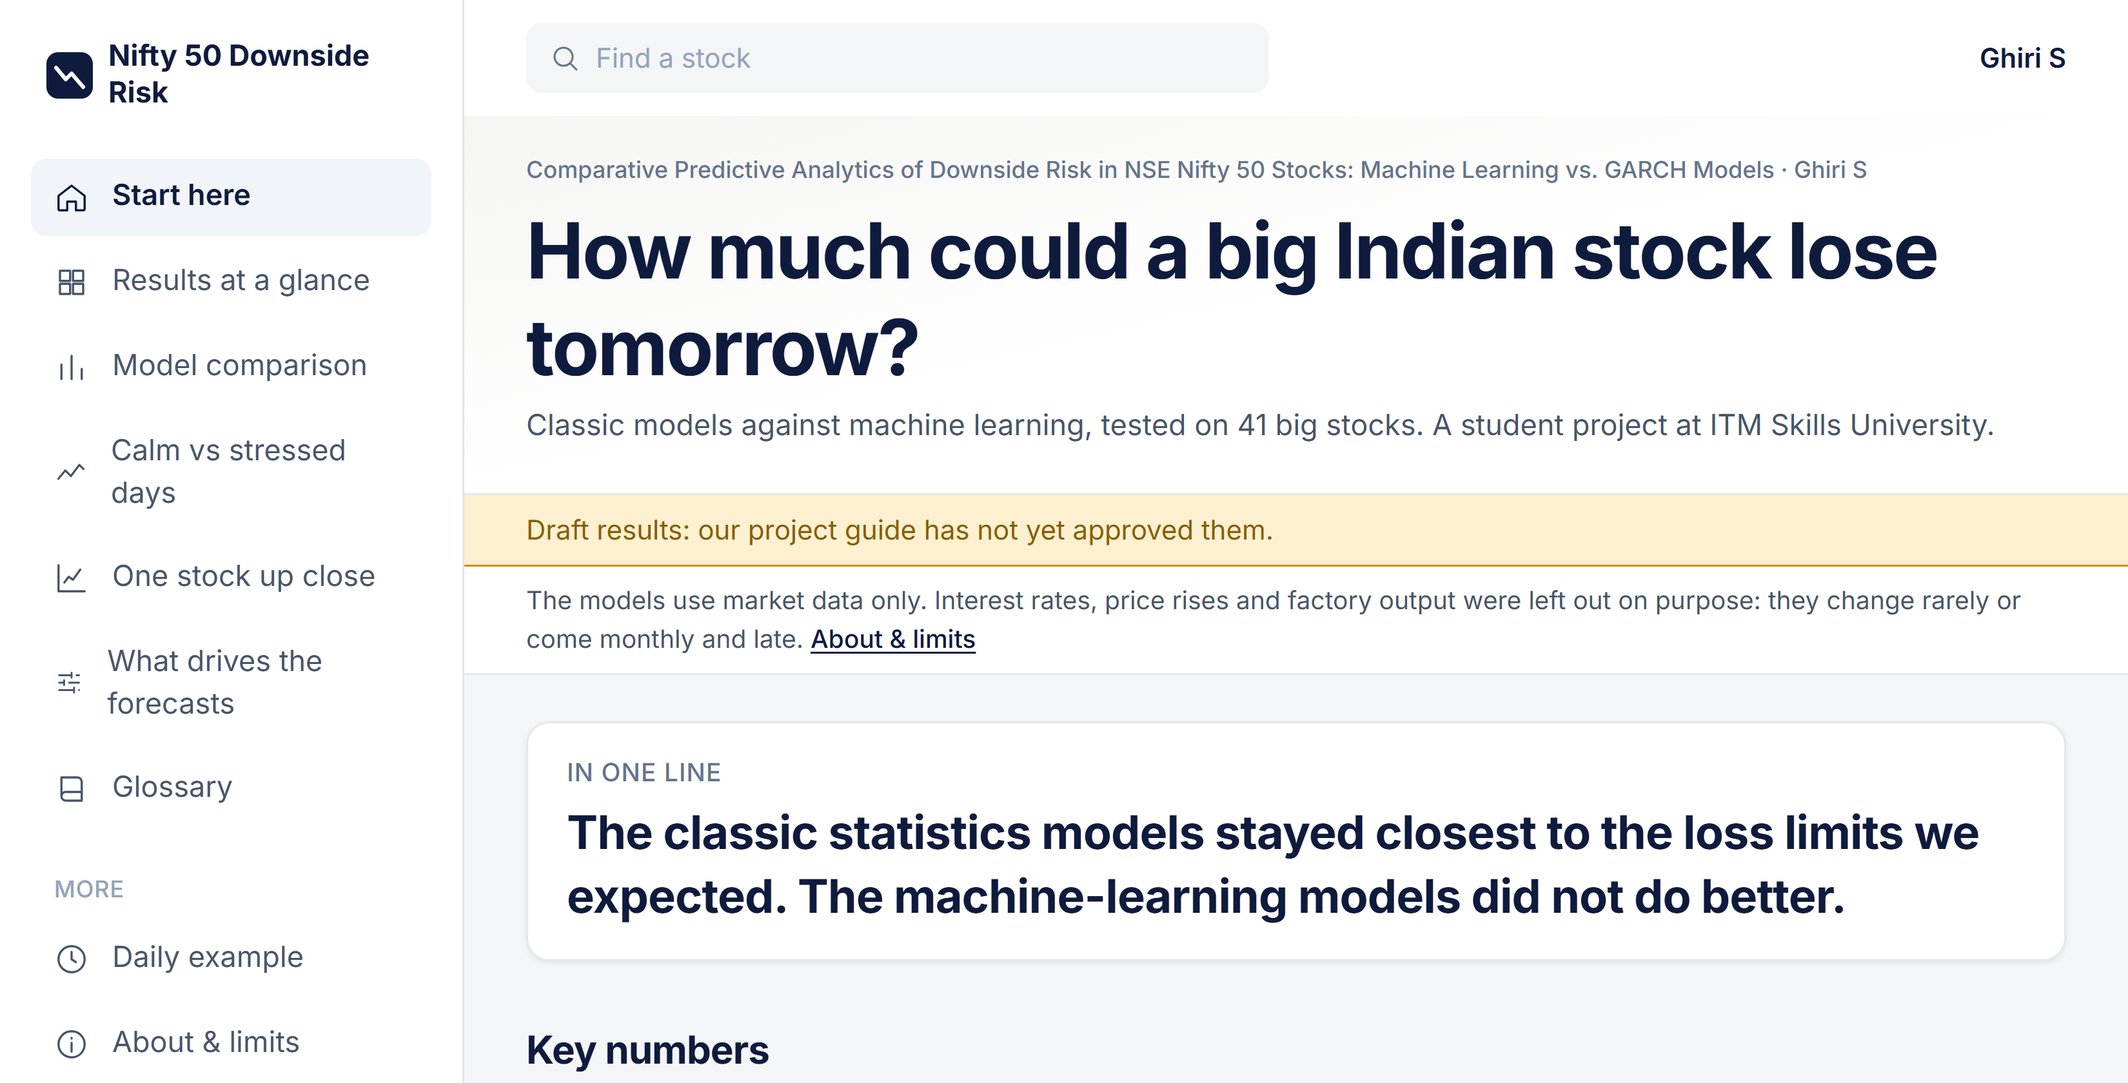
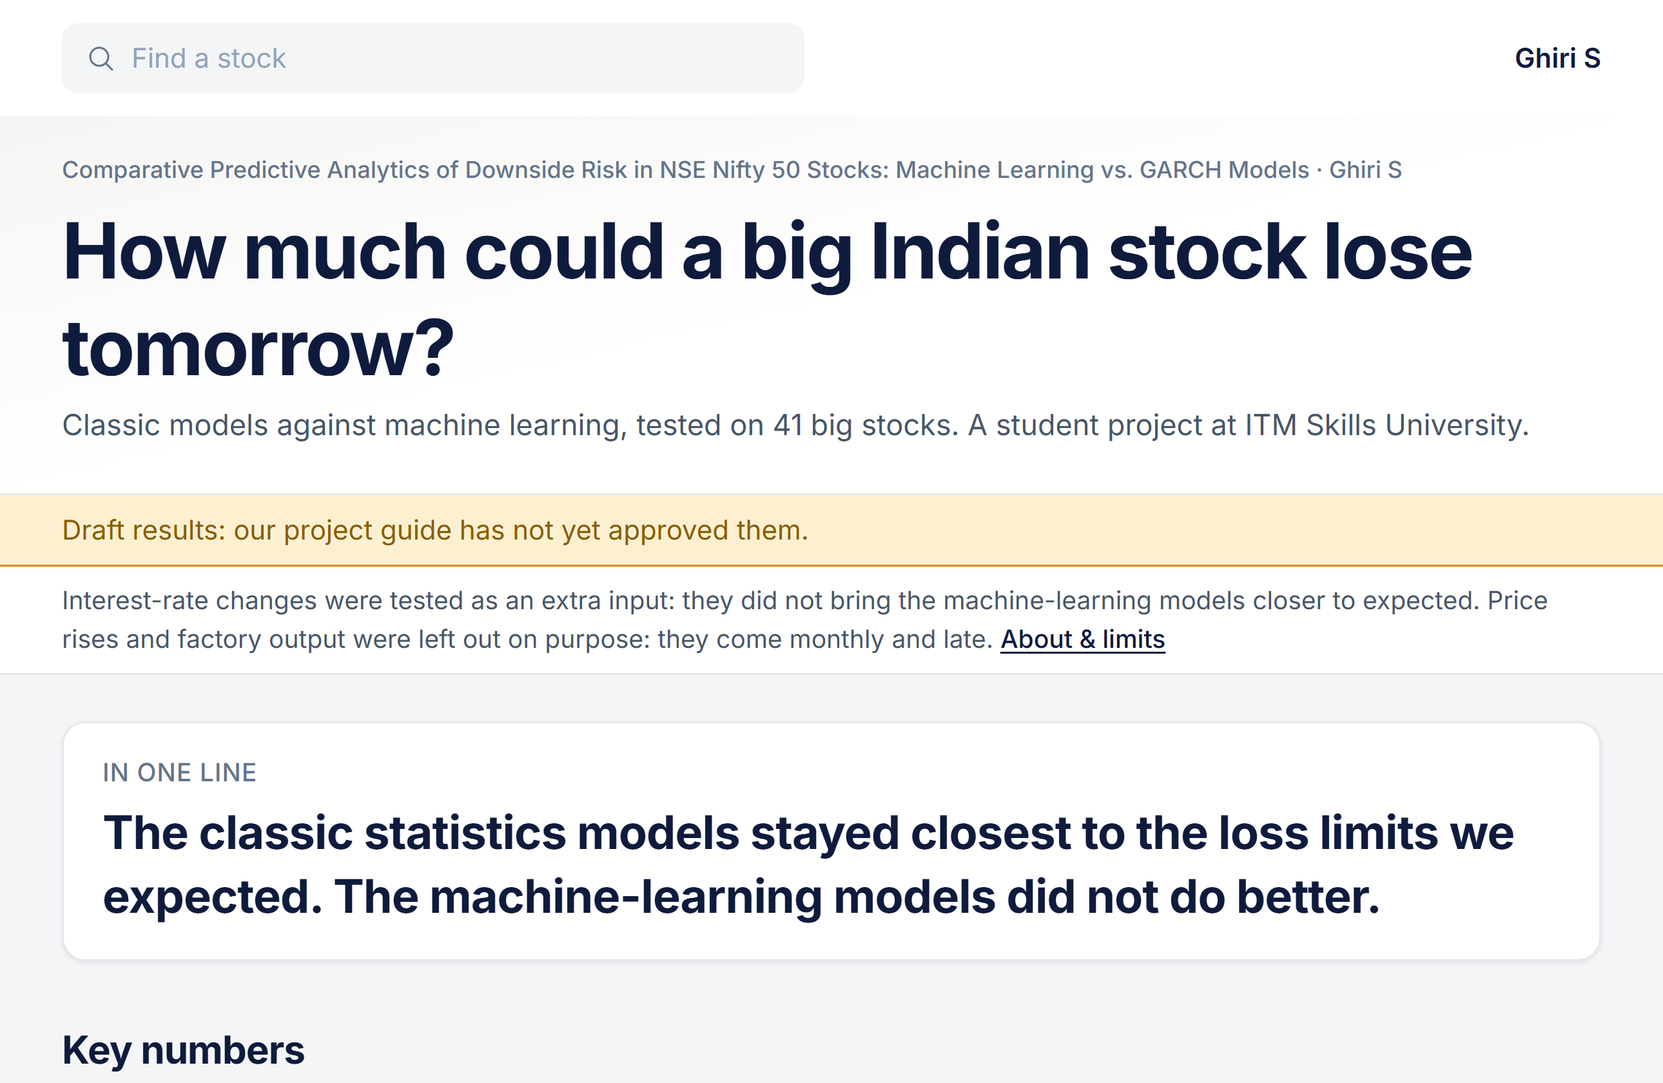
Report: interest-rate sections from the Path A result; screenshots on portrait A4 (content area, two per page); pipeline diagram label fixed; QA refreshed (397 numbers traced)

diff --git a/src/report_screens.py b/src/report_screens.py
@@ -8,7 +8,7 @@ each crop (HTML and chart text) is measured and its printed size logged. It must
   python src/report_screens.py [--url https://ghiris-a11y.github.io/capstone-nifty50-downside-risk/] [--mode all|desktop|phone|crops]
   -> report/figures/dashboard/app_<name>.png and report/figures/dashboard/app_sizes.json   (crops: element crops)
   -> report/figures/dashboard/desk_<tab>.png  (desktop: first screen of each tab, 1100 x 700, device scale 3, cropped
-     at the bottom to 1100 x 560 so a 25 cm wide image plus caption fits a landscape A4 page)
+     to the content column (menu removed) and the top 560 px, so two fit on a portrait A4 page at 15.5 cm wide)
   -> report/figures/dashboard/phone_<tab>.png (phone: first screen at 390 x 844, device scale 3)
   -> report/figures/dashboard/qr_dashboard.png (QR code of the live dashboard URL)
   -> report/figures/dashboard/screen_sizes.json (printed size of the body text in each image)
@@ -72,7 +72,8 @@ JS_BOX = """([pick, budgetCm, printCm, pad]) => {
 DESK_TABS = [("start", "#/"), ("overview", "#/overview"), ("models", "#/models"), ("regimes", "#/regimes"),
              ("stock", "#/stock"), ("live", "#/live")]
 PHONE_TABS = [("start", "#/"), ("models", "#/models"), ("live", "#/live")]
-DESK_PRINT_CM, DESK_CROP_H = 25.0, 560
+DESK_PRINT_CM, DESK_CROP_H = 15.5, 560
+SIDEBAR_PX = 240  # the dashboard's fixed menu column, cropped off so the content fills a portrait A4 figure
 PHONE_PRINT_CM = 5.4
 BODY_JS = """() => { const fs = [...document.querySelectorAll('main p')].filter(e => e.getBoundingClientRect().top < innerHeight && e.getBoundingClientRect().width)
   .map(e => parseFloat(getComputedStyle(e).fontSize)).sort((a, b) => a - b); return fs.length ? fs[Math.floor(fs.length / 2)] : 0; }"""
@@ -91,10 +92,12 @@ def first_screens(url, out, tabs, w, h, scale, prefix, print_cm, crop_h=None):
             body_px = page.evaluate(BODY_JS)
             path = os.path.join(out, f"{prefix}_{name}.png")
             page.screenshot(path=path)
-            if crop_h:
-                im = Image.open(path); im.crop((0, 0, im.width, crop_h * scale)).save(path)
+            shown_w = w
+            if crop_h:   # desktop: keep the content column (menu cropped off) and the top crop_h pixels
+                im = Image.open(path); im.crop((SIDEBAR_PX * scale, 0, im.width, crop_h * scale)).save(path)
+                shown_w = w - SIDEBAR_PX
             sizes[f"{prefix}_{name}"] = dict(viewport=f"{w}x{h}", scale=scale, print_cm=print_cm, body_px=body_px,
-                                             body_pt=round(body_px * print_cm / w / 0.03528, 1))
+                                             body_pt=round(body_px * print_cm / shown_w / 0.03528, 1))
             print(prefix, name, sizes[f"{prefix}_{name}"], flush=True)
         br.close()
     return sizes

diff --git a/src/make_report_visuals.py b/src/make_report_visuals.py
@@ -197,7 +197,7 @@ def techniques():
 def pipeline(N):
     fig, ax = canvas(10.6)
     H = 100 * 10.6 / 15.5
-    box(ax, 1, H - 22, 28, 20, "Yahoo Finance: 41 stocks, Nifty 50, India VIX, USD/INR\nNSE: index constituents\nRBI / MoSPI: repo, CPI, IIP (pending)",
+    box(ax, 1, H - 22, 28, 20, "Yahoo Finance: 41 stocks, Nifty 50, India VIX, USD/INR\nNSE: index constituents\nRBI: repo rate (verified)",
         fc=GREY_L, title="Sources", wrap=24)
     box(ax, 36, H - 22, 28, 20, "Hashes, gaps, zero-volume rows, corporate-action rule; failures logged", fc="white", title="Validation", wrap=27)
     box(ax, 71, H - 22, 28, 20, f"Read-only parquet files with SHA-256 hashes ({N['snapshot'][0]}); source of all report numbers", fc=RED_L, ec=RED,

diff --git a/src/build_report.py b/src/build_report.py
@@ -456,6 +456,8 @@ def add_figure(doc, number, path, caption, source, alt_text, qa, width_cm=None):
 
 def add_image(doc, path, width_cm, alt_text):
     full = os.path.join(ROOT, path)
+    if doc.paragraphs:   # keep the image (e.g. the QR code) on the same page as the line that introduces it
+        doc.paragraphs[-1].paragraph_format.keep_with_next = True
     p = doc.add_paragraph(); p.alignment = WD_ALIGN_PARAGRAPH.CENTER
     p.add_run().add_picture(full, width=Cm(float(width_cm)))
     alt(doc.inline_shapes[-1], alt_text)

diff --git a/report/chapters/04_data_collection.md b/report/chapters/04_data_collection.md
@@ -17,11 +17,11 @@ All data are secondary, daily and numeric. No questionnaire was used (Appendix A
 
 ## 4.2 Data pipeline
 
-{{fig:pipeline}} shows the path from sources to report and dashboard. Downloads wait between requests, retry and log every failure. The research data were frozen on {{snapshot}} into {{n_frozen_files}} read-only files with SHA-256 hashes. A GitHub Action adds each weekday's prices to a separate live file and updates the dashboard; only derived numbers are published.
+{{fig:pipeline}} shows the path from sources to report and dashboard. The research data were frozen on {{snapshot}} into {{n_frozen_files}} read-only files with SHA-256 hashes. A GitHub Action adds each weekday's prices to a separate live file and updates the dashboard; only derived numbers are published.
 
 [[FIG:pipeline|report/figures/v_pipeline.png|Data pipeline from sources to the frozen snapshot, the daily GitHub Action and the dashboard|Author's design; implemented in src/ and .github/workflows/daily_update.yml|Diagram with sources, validation and frozen snapshot in the top row, live files, GitHub Action and research run in the middle row, and the dashboard at the bottom.]]
 
-[[MEANS]] Anyone with the code and the frozen files gets the same numbers. The daily Action shows the recommended model can run unattended at almost no cost.
+[[MEANS]] Anyone with the code and the frozen files gets the same numbers, and the recommended model can run daily at almost no cost.
 
 ## 4.3 Sample selection
 
@@ -29,18 +29,18 @@ All data are secondary, daily and numeric. No questionnaire was used (Appendix A
 
 [[FIG:funnel|report/figures/v_funnel.png|Sample selection funnel from 50 constituents to the 41-stock balanced panel|config/nifty50_dec2025_candidates.csv, config/universe.csv, config/universe_excluded.csv|Funnel showing 50 constituents, 44 with full history after removing 6 later listings, and 41 after removing 3 suspected corporate-action errors.]]
 
-[[MEANS]] Later listings were left out only so that every model sees the same years. The price-error exclusions remove falls that were data artefacts, not real losses.
+[[MEANS]] Every model sees the same years, and falls caused by data errors are not counted as real losses.
 
-## 4.4 The market in the test years
-
-Each stock has {{rows_per_stock}} daily rows from {{data_first}} to {{data_last}}. The test window holds {{test_days_min}} to {{test_days_max}} trading days per stock, {{test_obs}} stock-days in all. At 99%, a good model should be beaten about {{exp_breaches_stock}} times per stock, so one stock alone says little and the analysis pools stocks.
-
-[[FIG:market|outputs/figures/print/fig01_market_context.png|Nifty 50 cumulative log return since January 2015 and the India VIX percentile, 2015 to 2026|outputs/figures/fig01_market_context (src/make_figures.py); frozen snapshot|Line chart of the Nifty 50 cumulative return rising from 2015 to 2026 with the India VIX percentile in amber; the test window from 2024 is shaded and the 7 October 2026 repo hike is marked with a dashed line.]]
-
-[[MEANS]] {{fig:market}} shows a rising but uneven market. The India VIX peaked at about {{vix_test_max}} points in the test years, against {{vix_fit_max}} in the fitting years. The test therefore checks normal to moderately stressed markets, not a 2020-style crisis.
-
-## 4.5 Return statistics
+## 4.4 Return statistics
 
 [[TABLE:desc_panel|desc_panel]]
 
-[[MEANS]] {{tab:desc_panel}} shows that {{pooled_small}} of stock-days moved by less than 2%, yet every stock had rare big falls. With fat tails and negative skew in {{n_negskew}} of {{n_stocks}} stocks, bell-curve models will understate big losses. Appendix C gives the figures by sector.
+[[MEANS]] {{tab:desc_panel}} shows quiet days are the norm ({{pooled_small}} moved under 2%), but fat tails mean bell-curve models will understate big losses. Appendix C gives the figures by sector.
+
+## 4.5 The market in the test years
+
+Each stock has {{rows_per_stock}} daily rows from {{data_first}} to {{data_last}}. The test window holds {{test_days_min}} to {{test_days_max}} trading days per stock, {{test_obs}} stock-days in all, so the analysis pools stocks.
+
+[[FIG:market|outputs/figures/print/fig01_market_context.png|Nifty 50 cumulative log return since January 2015 and the India VIX percentile, 2015 to 2026|outputs/figures/fig01_market_context (src/make_figures.py); frozen snapshot|Line chart of the Nifty 50 cumulative return rising from 2015 to 2026 with the India VIX percentile in amber; the test window from 2024 is shaded and the 7 October 2026 repo hike is marked with a dashed line.]]
+
+[[MEANS]] {{fig:market}} shows a rising but uneven market. The India VIX peaked at about {{vix_test_max}} points in the test years, against {{vix_fit_max}} earlier, so the test covers normal to moderately stressed markets, not a 2020-style crisis.

diff --git a/PROGRESS.md b/PROGRESS.md
@@ -1,6 +1,6 @@
 # PROGRESS
 
-Last updated: 2026-11-22 (report restructured to 48 pages; interest-rate sections pending). Read this file, CLAUDE.md, PROJECT_PLAN.md and HANDOFF.md to resume in a fresh session.
+Last updated: 2026-11-22 (Path A done; report 47 pages, all portrait). Read this file, CLAUDE.md, PROJECT_PLAN.md and HANDOFF.md to resume in a fresh session.
 
 ## Status by phase (PROJECT_PLAN.md section 3)
 
@@ -51,15 +51,16 @@ Pages (restructure, 2026-11-22): 48 in total (front matter 6; chapters 1-9: 42).
     - the 2-ticker rerun matches (backtest and regime files byte-identical; daily and DM files within 1e-16; no decision changes);
     - manifest hashes match; no ticker has fewer than 500 test days and no fit failed.
 
-## Interest-rate (macro) sections still to write (once Path A is decided)
-They were left out of the restructured text on purpose, so the result can be written in once:
-- Chapter 1 scope: a bullet on interest rates.
-- Chapter 3.4: repo rate dated on the RBI announcement date (lag 0); `load_macro` skips unverified files.
-- Chapter 4.1 sources table: a repo-rate row citing RBI Handbook Table 43 (2025); add that reference to Chapter 8.
-- Chapter 5: a post-hike view per model (table `posthike` exists), plus the `price_vixrel_fxchg_repo` row in the input-set table.
-- Chapter 6.3 and 6.8: what the rate result means for the VIX alert and for rate-cycle risk.
-- Chapter 7: the RQ4 sentence and a limitation; H4 wording in `src/report_numbers.py`.
-- Dashboard: the macro note is written by `src/export_dashboard_json.py` and switches automatically once a verified repo run exists.
+## Path A (done 2026-11-22)
+- `data/raw/repo_rate.csv`: 28 rows, all VERIFIED by the student (RBI Handbook Table 43 and MPC releases); file check passed (bdfc3b9).
+  - Do not open and save it in Excel: Excel rewrote the dates as DD-MM-YYYY once.
+- Labelled set `price_vixrel_fxchg_repo` run on 41 stocks, 0 failed (log in `data/logs/run.log`). No new line in `macro_skipped.log`; all 2,846 existing output files byte-identical (7385d48).
+- Result: repo-rate changes moved every ML 99% miss rate further from 1%:
+  - XGBoost 1.54% to 1.58%; Random Forest 1.30% to 1.35%; MLP 1.20% to 1.58%;
+  - DM on FZ0: GARCH better 87 to 112, ML better 19 to 20.
+  - H4 is rejected for both the India VIX and the repo rate.
+- Written into the report (Chapters 1-7, post-hike table with small-sample warning, RBI Handbook reference) and the dashboard (new input set, macro note from the data).
+- Report: 47 pages; desktop screenshots now on portrait A4 (content area, 15.5 cm, two per page).
 
 ## Open items (need the user)
 1. **Interest rates.** Verify `data/raw/repo_rate.csv` row by row and fill the 13 blank rows, then set every status to VERIFIED.

diff --git a/QA_report.md b/QA_report.md
@@ -1,10 +1,10 @@
 # QA report (P10 final QA)
 
-Run on 2026-11-22 14:22 by src/qa_final.py.
+Run on 2026-11-22 20:57 by src/qa_final.py.
 
 ## 1. Tests
 
-- pytest -q: 25 passed, 14 warnings in 13.48s
+- pytest -q: 25 passed, 14 warnings in 9.08s
 - python nifty50_var_pipeline.py --demo: exit code 0
 
 ## 2. Frozen snapshot
@@ -43,15 +43,15 @@ Backtest and regime files (breaches, coverage tests, Basel shares, FZ0 by regime
 ## 5. GitHub Action
 
 - Last scheduled run: 44820066066 on 2026-11-20T21:24:39Z: failure.
-- Last push run: 45003956887 on 2026-11-22T08:41:09Z: success.
+- Last push run: 45037216094 on 2026-11-22T15:14:39Z: success.
 - Failing job `deploy`, step(s) ['Deploy to GitHub Pages']. Log lines: `Error: No artifacts named "github-pages" were found for this workflow run. Ensure artifacts are uploaded with actions/upload-artifact@v4 or later.` / `Error: No artifacts named "github-pages" were found for this workflow run. Ensure artifacts are uploaded with actions/upload-artifact@v4 or later.` / `Fetching artifact metadata failed. Is githubstatus.com reporting issues with API requests, Pages, or Actions? Please re-run the deployment at a later time.`
 - Cause and fix: GitHub's artifact service failed briefly after a successful update and upload (the update job passed). Fix already in place: .github/workflows/daily_update.yml retries the deploy once after 90 s (commit 1286f40, after this run). Every push deploy since then has succeeded; the next scheduled run (Monday) will confirm the retry path.
 
 ## 6. Numbers and references
 
-- outputs/tables/report/report_numbers.csv: 373 numbers, 0 without a source file.
-- Report build QA (report/qa_phase2.md): Placeholders filled: 162 distinct numbers, each traced to a file in outputs/ (outputs/tables/report/report_numbers.csv); Unresolved placeholders: none; [FILL] / [UNVERIFIED] markers in printed text: none; Figures or tables never referenced in the text: none; Missing image files: none
-- References in Chapter 8: 29 entries (20 with a DOI); [UNVERIFIED] markers in the reference list: 0. Verification log: report/chapters/sources.md.
+- outputs/tables/report/report_numbers.csv: 397 numbers, 0 without a source file.
+- Report build QA (report/qa_phase2.md): Placeholders filled: 129 distinct numbers, each traced to a file in outputs/ (outputs/tables/report/report_numbers.csv); Unresolved placeholders: none; [FILL] / [UNVERIFIED] markers in printed text: none; Figures or tables never referenced in the text: none; Missing image files: none
+- References in Chapter 8: 30 entries (20 with a DOI); [UNVERIFIED] markers in the reference list: 0. Verification log: report/chapters/sources.md.
 
 ## 7. Template
 

diff --git a/report/qa_phase2.md b/report/qa_phase2.md
@@ -1,6 +1,6 @@
 # Phase 2 report: build QA
 
-- Placeholders filled: 121 distinct numbers, each traced to a file in outputs/ (outputs/tables/report/report_numbers.csv)
+- Placeholders filled: 129 distinct numbers, each traced to a file in outputs/ (outputs/tables/report/report_numbers.csv)
 - Unresolved placeholders: none
 - [FILL] / [UNVERIFIED] markers in printed text: none
 - Figures or tables never referenced in the text: none
@@ -15,7 +15,7 @@
 | 2 | 0 | 1 |
 | 3 | 2 | 1 |
 | 4 | 3 | 2 |
-| 5 | 9 | 10 |
+| 5 | 9 | 12 |
 | 6 | 2 | 6 |
 | 7 | 0 | 0 |
 | 8 | 0 | 0 |
@@ -42,12 +42,12 @@
 | Figure 5.8 | outputs/figures/print/fig13_breaches_by_day.png | 1791x1540 | 12.8 | 356 |
 | Figure 5.9 | outputs/figures/print/fig09_sector_var.png | 1802x1644 | 12.1 | 380 |
 | Figure 6.1 | report/figures/v_decision_table.png | 2438x2587 | 10.4 | 597 |
-| Figure 6.2 | report/figures/dashboard/desk_start.png | 3264x1680 | 25.0 | 332 |
-| Figure 9.1 | report/figures/dashboard/desk_overview.png | 3264x1680 | 25.0 | 332 |
-| Figure 9.2 | report/figures/dashboard/desk_models.png | 3264x1680 | 25.0 | 332 |
-| Figure 9.3 | report/figures/dashboard/desk_regimes.png | 3264x1680 | 25.0 | 332 |
-| Figure 9.4 | report/figures/dashboard/desk_stock.png | 3264x1680 | 25.0 | 332 |
-| Figure 9.5 | report/figures/dashboard/desk_live.png | 3264x1680 | 25.0 | 332 |
+| Figure 6.2 | report/figures/dashboard/desk_start.png | 2580x1656 | 15.5 | 423 |
+| Figure 9.1 | report/figures/dashboard/desk_overview.png | 2580x1656 | 15.5 | 423 |
+| Figure 9.2 | report/figures/dashboard/desk_models.png | 2580x1656 | 15.5 | 423 |
+| Figure 9.3 | report/figures/dashboard/desk_regimes.png | 2580x1656 | 15.5 | 423 |
+| Figure 9.4 | report/figures/dashboard/desk_stock.png | 2580x1656 | 15.5 | 423 |
+| Figure 9.5 | report/figures/dashboard/desk_live.png | 2580x1656 | 15.5 | 423 |
 | Figure 9.6 | report/figures/dashboard/phone_start.png | 1170x2532 | 5.4 | 550 |
 | Figure 9.6 | report/figures/dashboard/phone_models.png | 1170x2532 | 5.4 | 550 |
 | Figure 9.6 | report/figures/dashboard/phone_live.png | 1170x2532 | 5.4 | 550 |

diff --git a/report/chapters/09_appendices.md b/report/chapters/09_appendices.md
@@ -88,7 +88,7 @@ Code and data: [https://github.com/ghiris-a11y/capstone-nifty50-downside-risk](h
 
 The main pipeline is nifty50_var_pipeline.py; scripts in src/ build every number and figure in this report. A GitHub Action runs each weekday at 7:00 PM IST. It downloads the day's prices, checks them, recomputes a next-day GJR-t VaR and ES for every stock and updates the dashboard. The dashboard text scored grade {{fk_min}} to {{fk_max}} on the Flesch-Kincaid scale across its {{n_tabs}} tabs. Its layout borrows ideas from two Figma Community files, the [Trading Stock Market Dashboard Platform UI Kit](https://www.figma.com/design/3c5zWpbNciVkRL6YMIsbgg/) and the [Minimal & modern report template](https://www.figma.com/design/o8Yeuw8XFrj9Oxt2TkYOLt/). Only layout ideas were used and no assets were copied; the licence on the two Community pages was not checked.
 
-The figures below show the first screen of five more tabs on a desktop (1,100 by 700 pixels), cropped to the content area with the side menu removed, two to a page. The last figure shows the same dashboard on a phone.
+The figures below show the first screen of five more tabs on a desktop (1,100 by 700 pixels), two to a page. Each is cropped to the content area, with the side menu removed. The last figure shows the same dashboard on a phone.
 
 
 [[FIG:desk_overview|report/figures/dashboard/desk_overview.png|Dashboard, Results at a glance tab on a desktop screen (content area)|Live dashboard, captured with Playwright (src/report_screens.py)|Desktop screenshot of the Results at a glance tab with the one-line answer, input and level selectors, and summary cards.|15.5]]

diff --git a/report/chapters/03_methodology.md b/report/chapters/03_methodology.md
@@ -23,7 +23,7 @@ The population is the fifty Nifty 50 stocks of December 2025. The sample is purp
 - **Random Forest and MLP:** forecast the size of tomorrow's move; past forecast errors then give VaR and ES (filtered historical simulation).
 - **Benchmark:** the loss limit and worst-day average of the last 250 days (historical simulation).
 
-The machine-learning inputs are past returns, recent volatility, recent falls and volume changes. Labelled sets add the India VIX or USD/INR changes. One more set adds the change in the RBI repo rate over 21 and 63 trading days. Each rate change is dated on the day the RBI announced it, from a file checked row by row against RBI Handbook Table 43 and the policy releases (Reserve Bank of India, 2025). The program refuses to use any rate file with a blank or unchecked row. Every input for day t uses data up to day t-1 only, and random seeds are fixed at 42.
+The machine-learning inputs are past returns, recent volatility, recent falls and volume changes. Labelled sets add the India VIX or USD/INR changes. One more set adds the change in the RBI repo rate over 21 and 63 trading days. Each rate change is dated on the day the RBI announced it. The file was checked row by row against RBI Handbook Table 43 and the policy releases (Reserve Bank of India, 2025). The program refuses to use any rate file with a blank or unchecked row. Every input for day t uses data up to day t-1 only, and random seeds are fixed at 42.
 
 ## 3.5 How the forecasts are judged
 

diff --git a/report/page_check.md b/report/page_check.md
@@ -1,17 +1,17 @@
 # Phase 2 report: page check
 
-Total pages: 48 (front matter: 6, chapters 1-9: 42)
+Total pages: 47 (front matter: 6, chapters 1-9: 41)
 
 | Chapter | Starts on PDF page | Pages | Share of chapter pages | Figures | Tables |
 |---|---|---|---|---|---|
 | 1 | 7 | 3 | 7% | 2 | 0 |
 | 2 | 10 | 2 | 5% | 0 | 1 |
 | 3 | 12 | 4 | 10% | 2 | 1 |
-| 4 | 16 | 3 | 7% | 3 | 2 |
-| 5 | 19 | 13 | 31% | 9 | 10 |
-| 6 | 32 | 5 | 12% | 2 | 6 |
-| 7 | 37 | 1 | 2% | 0 | 0 |
-| 8 | 38 | 2 | 5% | 0 | 0 |
-| 9 | 40 | 9 | 21% | 6 | 7 |
+| 4 | 16 | 4 | 10% | 3 | 2 |
+| 5 | 20 | 13 | 32% | 9 | 12 |
+| 6 | 33 | 5 | 12% | 2 | 6 |
+| 7 | 38 | 1 | 2% | 0 | 0 |
+| 8 | 39 | 2 | 5% | 0 | 0 |
+| 9 | 41 | 7 | 17% | 6 | 7 |
 
-Chapters 5 and 6 (analysis and recommendations): 18 of 42 chapter pages (43%); Chapters 1-3 (theory and method): 9 pages (21%).
+Chapters 5 and 6 (analysis and recommendations): 18 of 41 chapter pages (44%); Chapters 1-3 (theory and method): 9 pages (22%).

diff --git a/report/layout_check.md b/report/layout_check.md
@@ -5,13 +5,14 @@
 | Page | Fill | Note |
 |---|---|---|
 | 4 | 11% | front matter |
+| 19 | 7% | chapter end |
 
 ## Words split across lines in tables: 0
 
 
 ## Clickable links in the PDF
 
-- Dashboard link on pages: [9, 35, 42]
-- GitHub links on pages: [41, 41, 41, 42]
-- All link annotations: 39
+- Dashboard link on pages: [9, 37, 43]
+- GitHub links on pages: [42, 42, 42, 43]
+- All link annotations: 40
 
